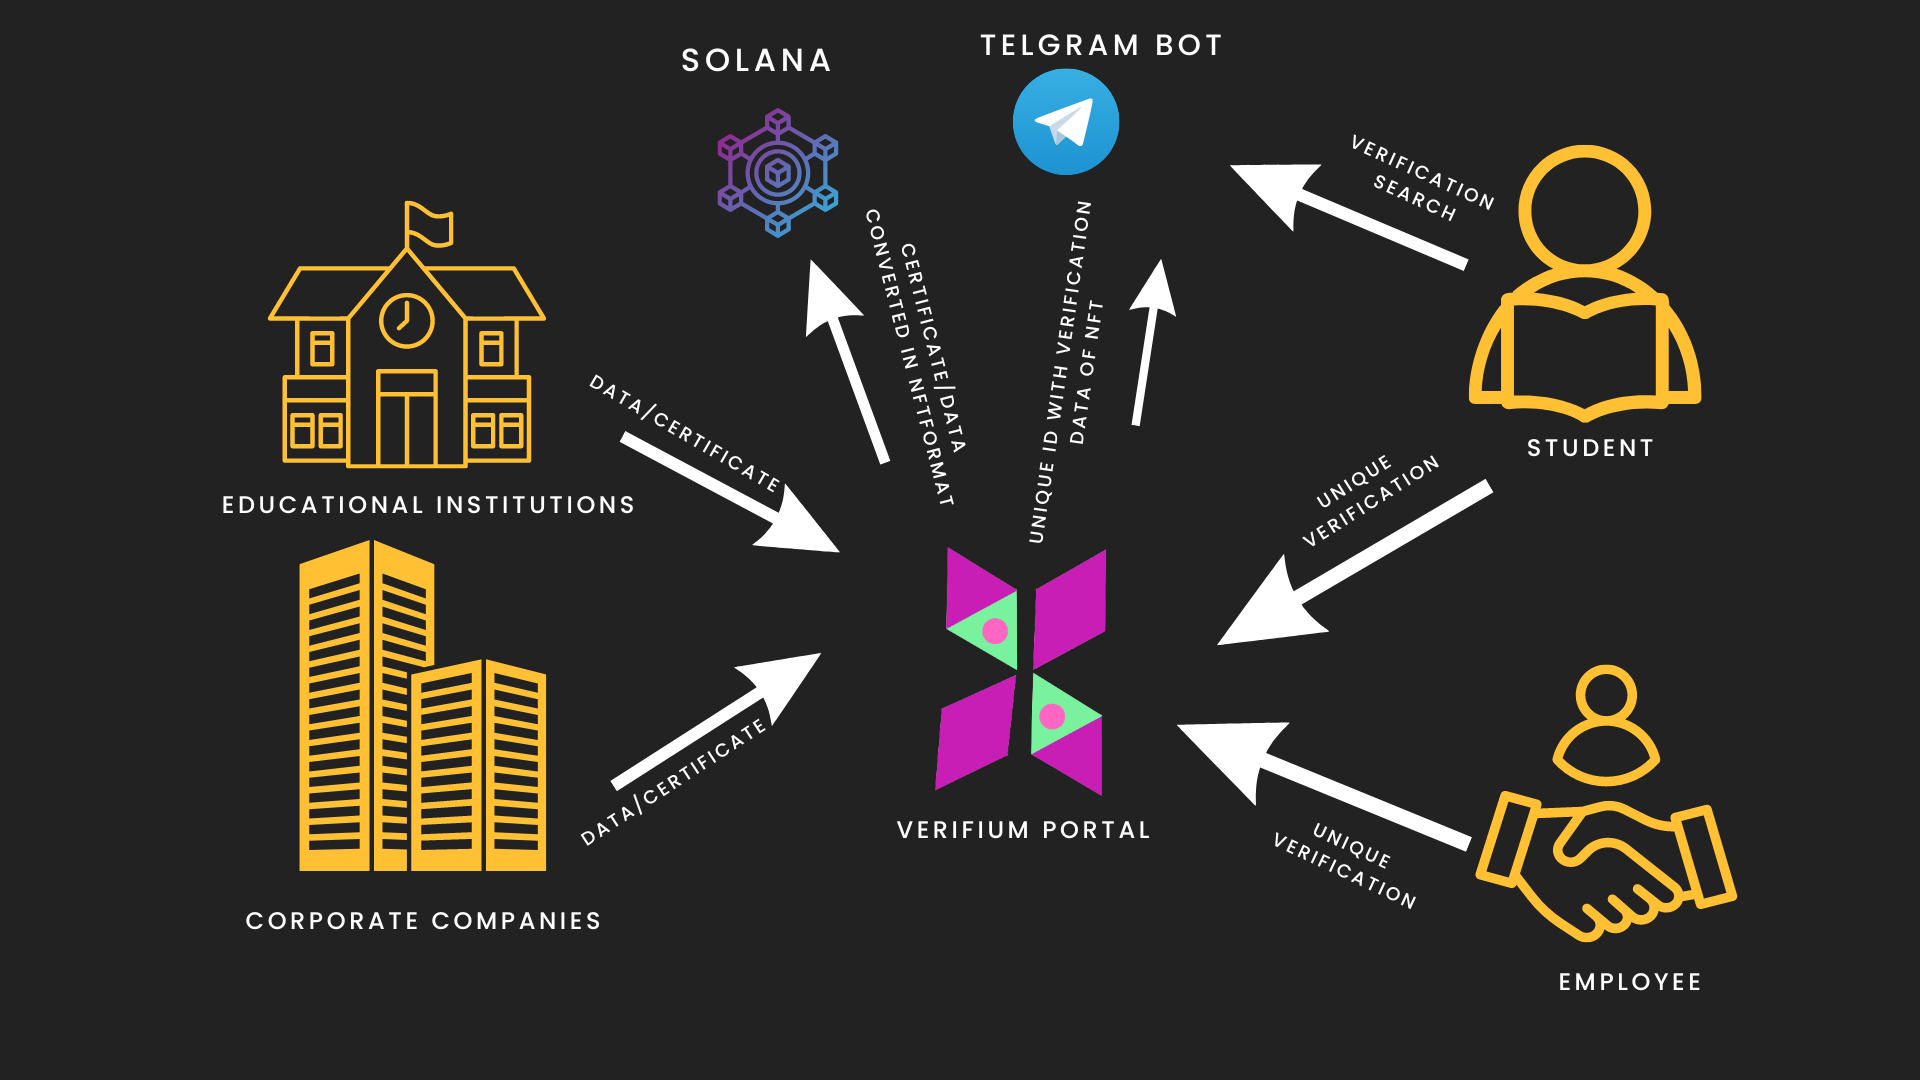
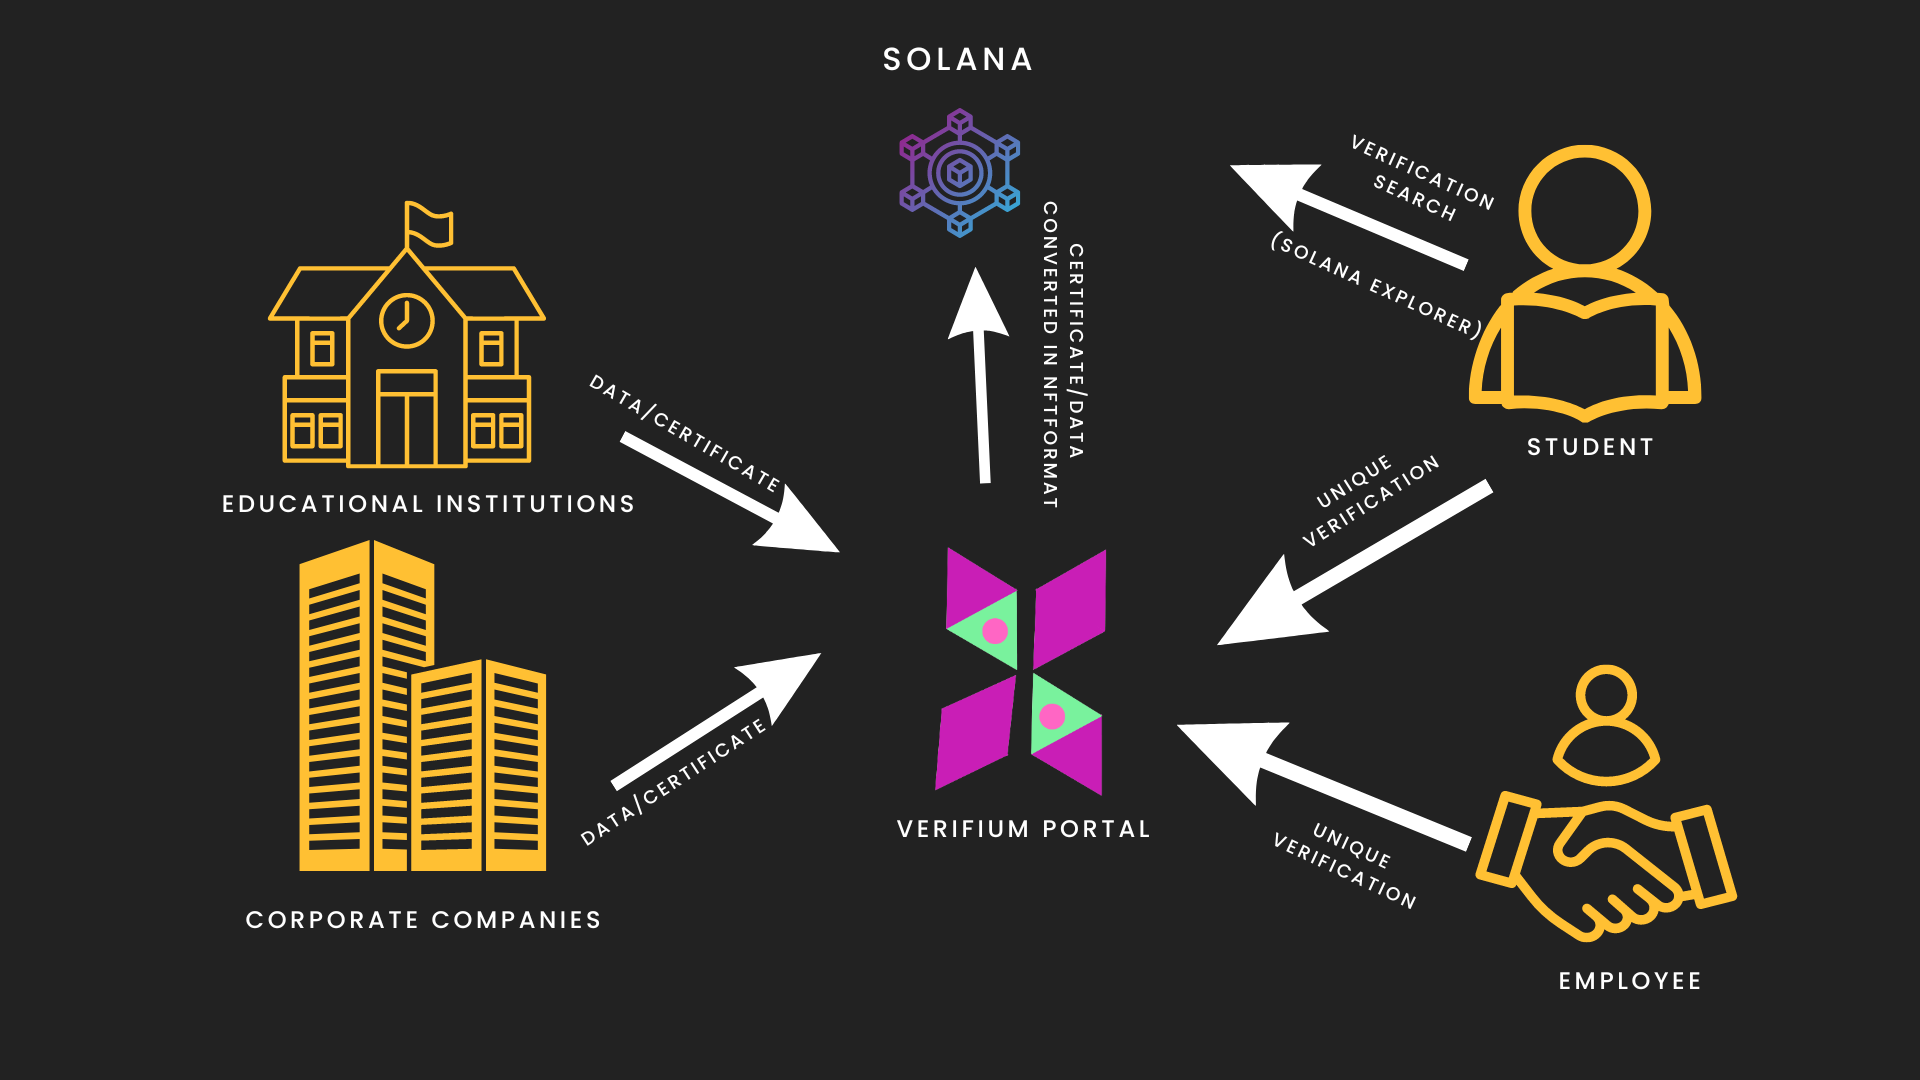
Start port updated to 3006, About page Img updated,Redierect to solana explorer added : Stable release 1.0

diff --git a/src/App.css b/src/App.css
@@ -492,7 +492,10 @@ html {
   display: flex;
   justify-content: flex-start;
   align-items: center;
-
+}
+.footer a{
+  text-decoration: none;
+  color: inherit;
 }
 
 .Details {
@@ -884,9 +887,10 @@ table {
   width: 80%;
   min-height: 100px;
   /* background-color: #000000; */
+  /* border: 1px solid black; */
 
 }
-
+/* tr:nth-child(even){background-color: #4c4a4a;} */
 th {
   border: 1px solid rgb(255, 255, 255);
   padding: 1rem;
@@ -897,7 +901,7 @@ td {
   text-align: center;
   padding: 1rem;
 }
-
+tr:hover {background-color: rgb(31, 194, 215);}
 .Stats {
   width: 80vw;
   min-height: 100vh;

diff --git a/src/components/Footer.jsx b/src/components/Footer.jsx
@@ -40,7 +40,10 @@ const Footer = () => {
           <ul>
             {/* <li>Facebook</li>
             <li>Instagram</li> */}
+            {/* <Link to=""></Link> */}
+            <a target="_blank" href="https://www.linkedin.com/in/prakhar-dubey-3790b81b7/">
             <li>Linkdln <LinkedInIcon /></li>
+            </a>
             <li>Github <GitHubIcon /></li>
           </ul>
         </div>

diff --git a/src/pages/MintNft.jsx b/src/pages/MintNft.jsx
@@ -40,6 +40,7 @@ const Create = () => {
 			setMinted(saveMinted);
 			setStatus(`success: Successfully Signed and Minted.  and ${saveMinted} my: ${adres} `);
 			toast(`success: Successfully Signed and Minted.  and ${saveMinted} my: ${adres} `);
+			window.location.replace(`https://explorer.solana.com/address/${isAddress}/tokens?cluster=devnet`);
 		}
 	  }
 
